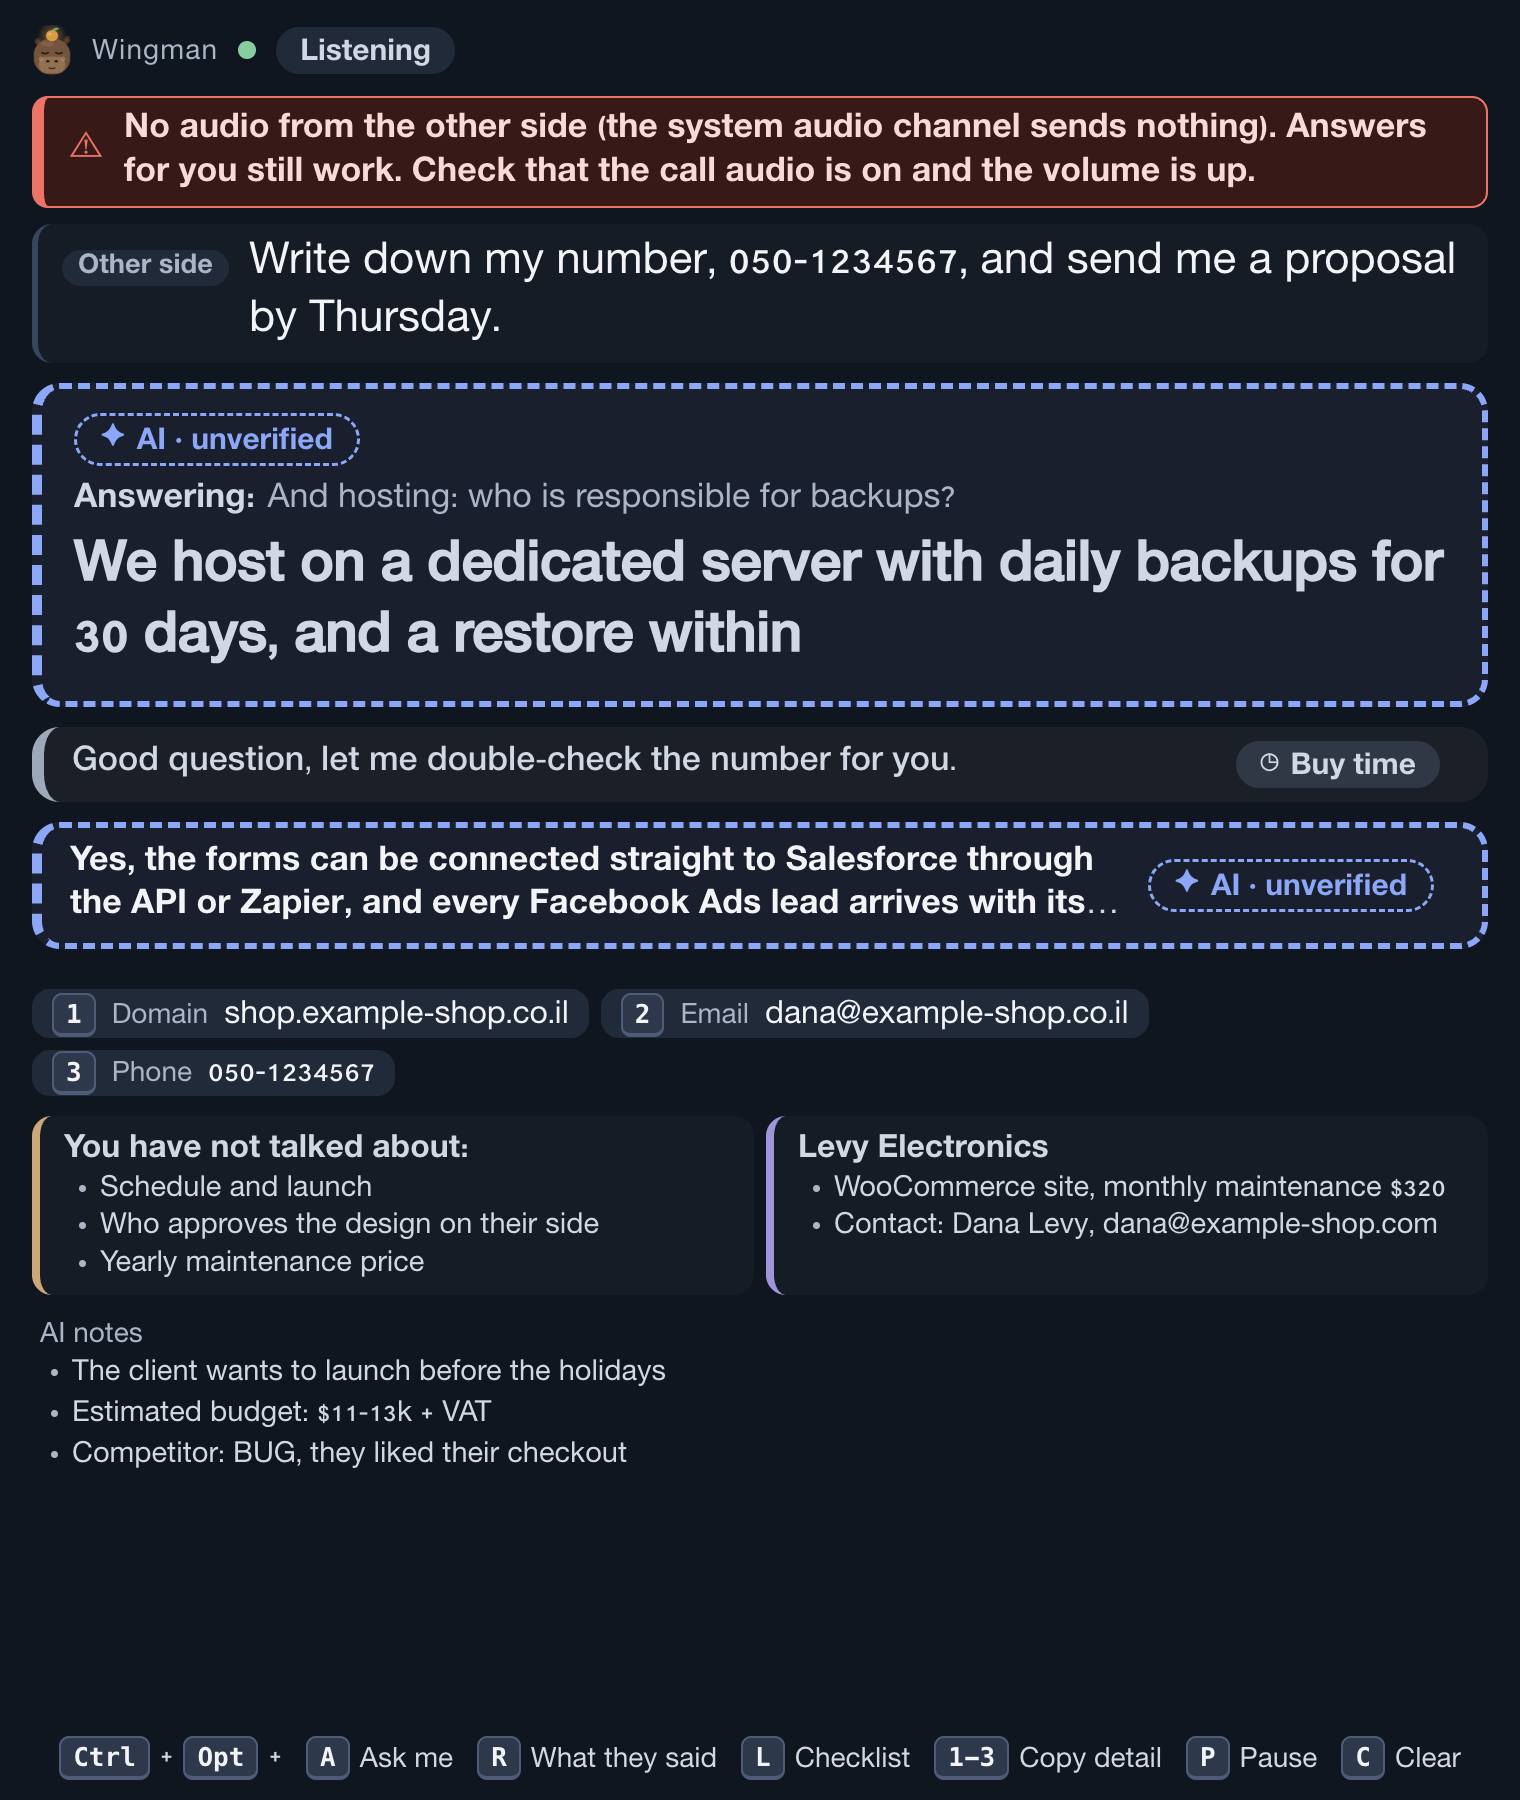
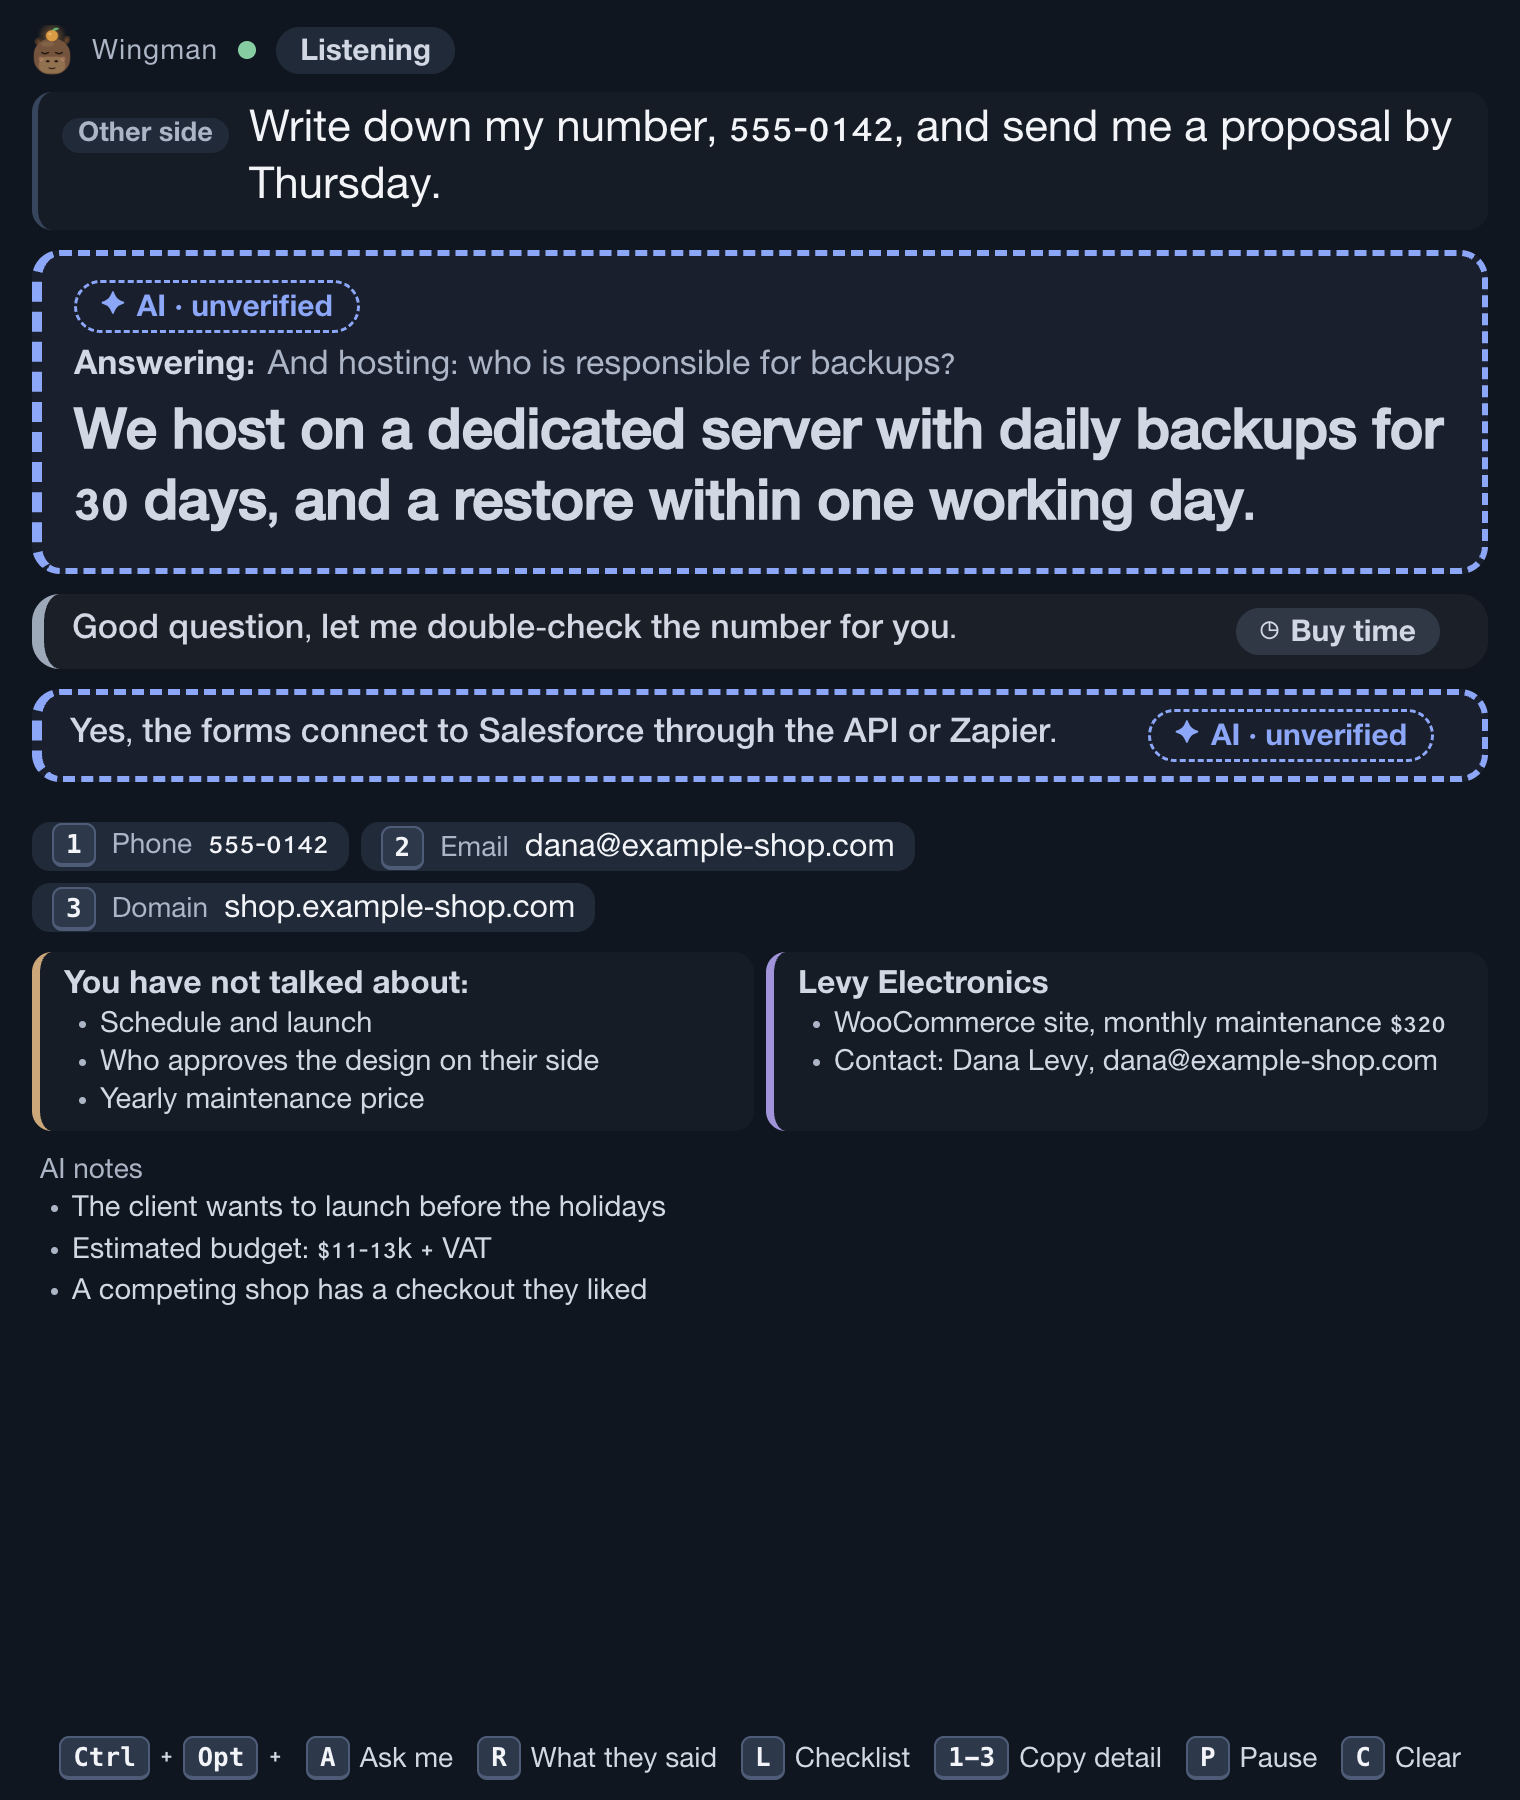
Polish UI strings and re-render the English answer window screenshot
Clearer badge, frame and error texts, consistent "Settings, Keys" and plan wording,
and a clean English fixture (no health banner, finished cards, one example domain).
Removes the unreferenced answer-window-en.png.

Changed region(s): [[0.0, 0.0311, 0.9895, 0.8089], [0.9586, 0.4978, 0.9895, 0.5289]]

diff --git a/app/dashboard/home.js b/app/dashboard/home.js
@@ -544,7 +544,7 @@ async function startFlow(t, anyway) {
       return;
     }
     const m = t.planId ? H.plans.find((x) => x.id === t.planId) : null;
-    const what = t.planId ? "Start " + (m ? m.title || m.who || "prepared meeting" : "prepared meeting") : t.noAi ? "Quick call without AI" : "Quick call";
+    const what = t.planId ? "Start " + (m ? m.title || m.who || "plan" : "plan") : t.noAi ? "Quick call without AI" : "Quick call";
     await act(() => (t.noAi ? api.startNoAi(t.planId) : api.start(t.planId)), what);
   } finally {
     setStartBusy(false);
@@ -1014,7 +1014,7 @@ function editorCard() {
     h(
       "div",
       { class: "rhead" },
-      h("h2", { id: "plan-h" }, cur ? "Plan: edit prepared meeting" : "Plan: new prepared meeting"),
+      h("h2", { id: "plan-h" }, cur ? "Edit plan" : "New plan"),
       tip(
         "Who the call is with and what you want from it. The AI uses it for answers, tips and the summary. It is used by the call you start with it, and kept until about 6 hours after the meeting time (or 14 days if it has no time).",
       ),
@@ -1211,7 +1211,7 @@ function issueList(list) {
           {},
           h("div", {}, niceFix(x.text)),
           x.fix ? h("div", { class: "fix" }, "Fix: " + niceFix(x.fix)) : null,
-          keyRelated(x) ? h("button", { type: "button", class: "linkbtn fixlink", onclick: () => viewSettings("keys") }, "Open Settings → Keys") : null,
+          keyRelated(x) ? h("button", { type: "button", class: "linkbtn fixlink", onclick: () => viewSettings("keys") }, "Open Settings, Keys") : null,
         ),
       ),
     ),
@@ -1420,7 +1420,7 @@ function attachField() {
   };
   const report = (r, what) => {
     if (!r.ok) {
-      msg.textContent = r.error === "preview" ? "Not available in a preview." : r.error || "Could not add that.";
+      msg.textContent = r.error === "preview" ? "Not available in a preview." : r.error || "Could not add that file. Check that it exists and try again.";
       return;
     }
     msg.textContent = r.truncated ? `${what} was cut to fit the limit.` : "";

diff --git a/app/dashboard/homelib.js b/app/dashboard/homelib.js
@@ -95,11 +95,11 @@
   /** The "Skip summary" control shows while the summary is the step in progress (not before, not after, not twice). */
   const canSkipSummary = (call) => !!call && call.phase === "stopping" && call.stopPhase === "summary" && !call.summarySkipped && !call.summaryOk;
 
-  /** Doctor lines are written for the command line. Say where things are now: keys in the Keychain (Settings → Keys), permissions for Wingman. */
+  /** Doctor lines are written for the command line. Say where things are now: keys in the Keychain (Settings, Keys), permissions for Wingman. */
   function niceFix(t) {
     return String(t || "")
-      .replace(/add it to ~?\/?[\w./-]*keys\.env/gi, "add it in Settings → Keys")
-      .replace(/~?\/?[\w./-]*keys\.env/gi, "Settings → Keys")
+      .replace(/add it to ~?\/?[\w./-]*keys\.env/gi, "add it in Settings, Keys")
+      .replace(/~?\/?[\w./-]*keys\.env/gi, "Settings, Keys")
       .replace(/\b(your )?terminal( app)?\b/gi, "Wingman")
       .replace(/\bdoctor\b/gi, "readiness check");
   }

diff --git a/app/overlay/strings.js b/app/overlay/strings.js
@@ -127,7 +127,7 @@
     "badge.stall": "Buy time",
     "badge.me": "For you",
     "badge.fix": "Correction · what you said",
-    "badge.careful": "Careful · you committed",
+    "badge.careful": "Careful: you made a commitment",
     "badge.calc": "Calculation",
     "badge.info": "Notice",
     "badge.consent": "Waiting for you to approve listening",
@@ -138,7 +138,7 @@
     "notes.title": "AI notes",
     "frame.label": "Call:",
     "frame.goal": "Goal: ",
-    "frame.must": "Must",
+    "frame.must": "Must cover",
     "kind.client": "Client",
     "kind.support": "Support",
     "kind.vendor": "Vendor",
@@ -157,7 +157,7 @@
     "tip.term": "Term",
     "tip.remind": "Remind",
     "tip.note": "Note",
-    "who.me": "Me",
+    "who.me": "You",
     "who.them": "Other side",
     "rewind.recent": "What they said · last {s} seconds",
     "rewind.latest": "What they said · latest lines",

diff --git a/app/dashboard/settings.js b/app/dashboard/settings.js
@@ -321,14 +321,14 @@ async function keyAct(provider, fn, okMsg) {
   if (state.view === "home" && typeof suRedraw === "function") suRedraw();
 }
 function testText(r) {
-  if (!r || !r.ok) return (r && r.message) || "Could not test.";
+  if (!r || !r.ok) return (r && r.message) || "Could not test the key. Check your connection and try again.";
   return (
     {
       ok: "The key works.",
       invalid: "The provider rejected this key.",
       network: "Could not reach the provider. Check your connection.",
       missing: "No key to test.",
-    }[r.result] || "Could not test."
+    }[r.result] || "Could not test the key. Check your connection and try again."
   );
 }
 /** Row for one provider: status chip, write-only password field, Test and Remove. */

diff --git a/app/src/dashboard-home.test.ts b/app/src/dashboard-home.test.ts
@@ -147,7 +147,7 @@ test("Ask/Note input: two clear modes, unknown mode means note, the armed state 
 });
 
 test("doctor text speaks to the app user: Keychain, Wingman, readiness check", () => {
-  assert.equal(H.niceFix("add it to ~/.config/wingman/keys.env"), "add it in Settings → Keys");
+  assert.equal(H.niceFix("add it to ~/.config/wingman/keys.env"), "add it in Settings, Keys");
   assert.equal(H.niceFix("grant Microphone to your terminal app, restart it"), "grant Microphone to Wingman, restart it");
   assert.equal(H.niceFix("run doctor again"), "run readiness check again");
   assert.equal(H.keyRelated({ text: "DEEPGRAM_API_KEY missing", fix: "" }), true);

diff --git a/app/dashboard/setup.js b/app/dashboard/setup.js
@@ -54,7 +54,7 @@ async function suAct(id, fn, okText) {
         : okText
       : r && r.error === "preview"
         ? "This is a preview, nothing was changed."
-        : (r && (r.message || r.error)) || "Did not work.";
+        : (r && (r.message || r.error)) || "That did not work. Check the details and try again.";
   SU.msg[id] = { ok: !!(r && r.ok !== false), text };
   (SU.msg[id].ok ? announce : fail)(text);
   suRedraw();
